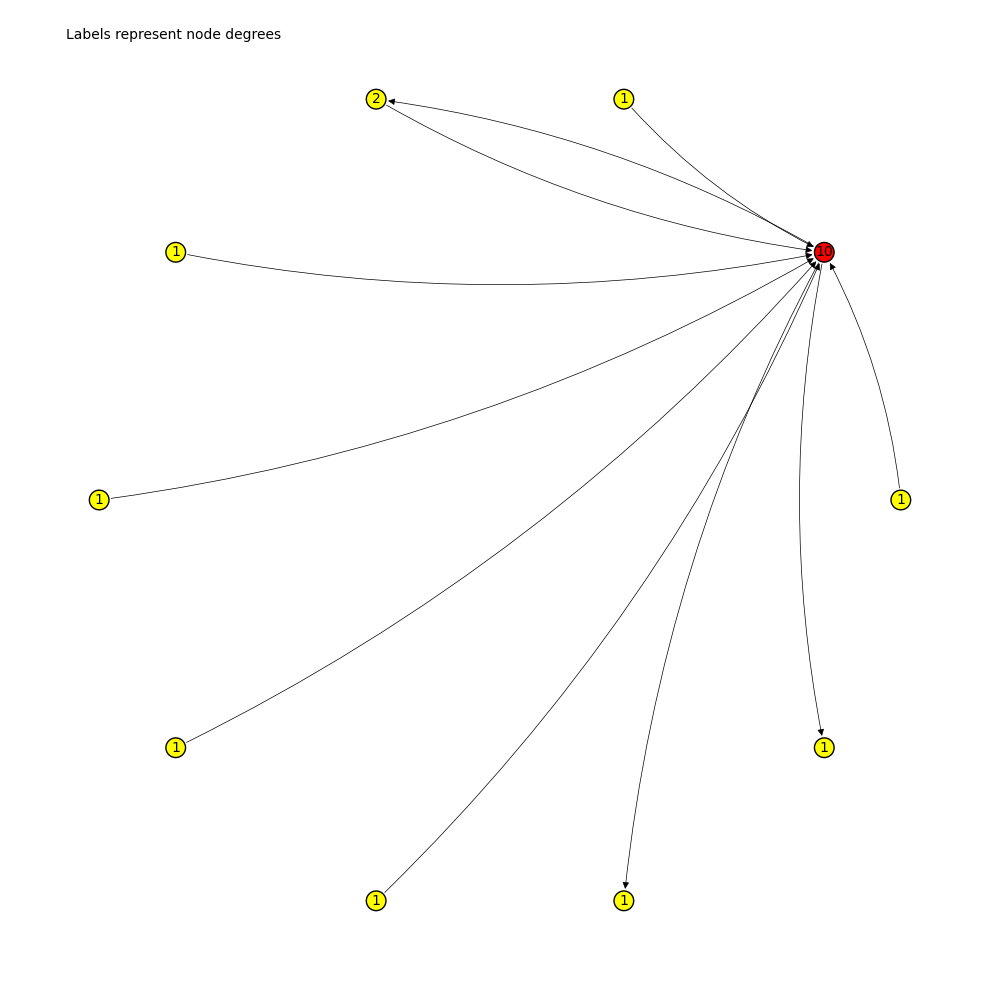
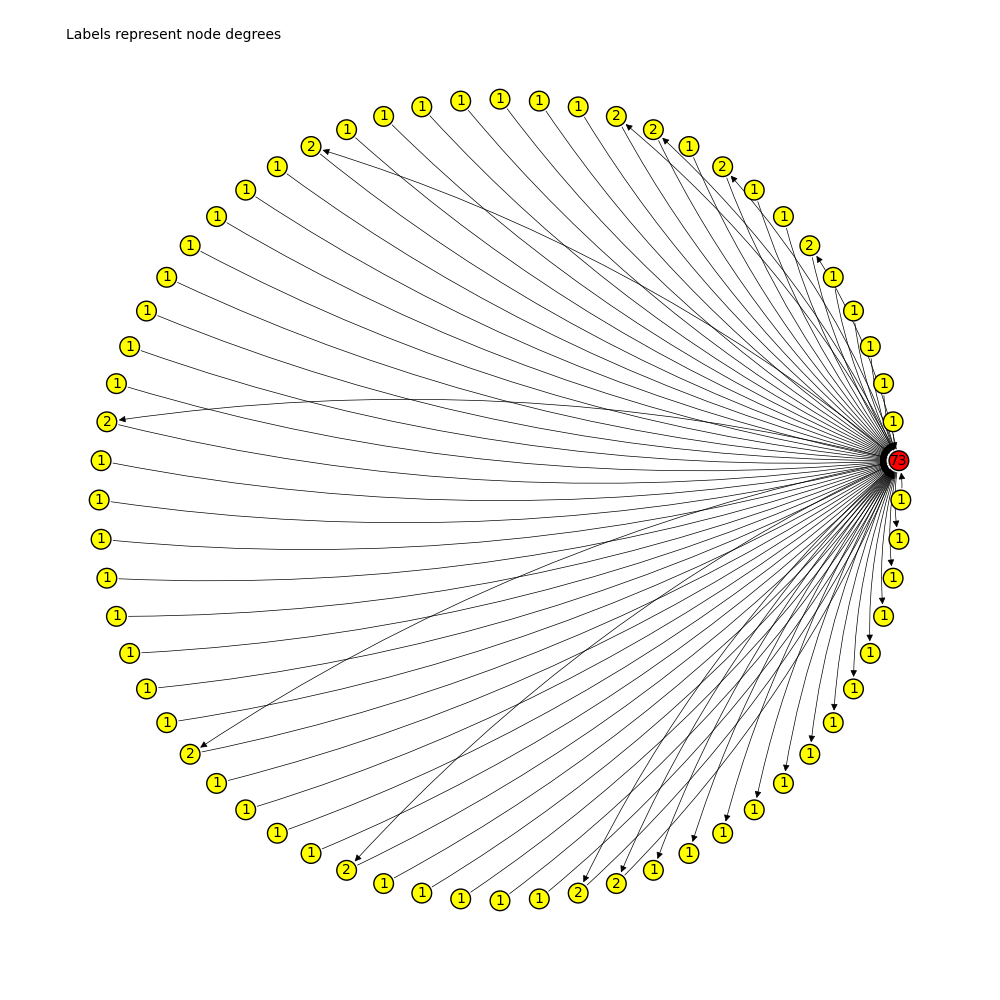
refactored peer_viz to test it properly

diff --git a/peer-viz/peer_viz.py b/peer-viz/peer_viz.py
@@ -20,8 +20,8 @@ logging.basicConfig(filename='peer_viz.log',
                     level=logging.DEBUG,
                     format='%(levelname)s:%(asctime)s:%(message)s')
 
-## set debugging mode for all websocket connection
-#websocket.enableTrace(True)
+# set debugging mode for all websocket connection
+# websocket.enableTrace(True)
 
 def _getenvvar(name: str) -> str:
     """
@@ -35,40 +35,33 @@ def _getenvvar(name: str) -> str:
         ret_value = os.getenv(name)
     return ret_value
 
-
-if __name__ == "__main__":
-    # read parameters from environment variables
-    api_host = _getenvvar('HOPR_NODE_1')
-    api_key  = _getenvvar('HOPR_NODE_1_API_KEY')
-
-    # get address id of api host and verify that the api host is still available
+def get_api_address_api_host(api_host, api_key):
+    """
+    Fetches information about the API host and checks whether the api host is available.
+    Returns the peer id of the api host
+    """
     address_url = "http://{}:3001/api/v2/account/addresses".format(api_host)
-    print(address_url)
-    headers     = {
-      'X-Auth-Token': api_key
-    }
-    address_response = requests.request("GET",
-                                        address_url,
-                                        headers=headers)
+    headers = {'X-Auth-Token': api_key}
+    address_response = requests.request("GET", address_url, headers=headers)
     my_pid = None
-    if (address_response.status_code == 200): # 200: Address fetched successfully
+    if address_response.status_code == 200:
         my_pid = address_response.json()['hoprAddress']
         logging.info("Host available (PID {})".format(my_pid))
     else:
         logging.error("Host is NOT available: start a new cluster. Status code: {}".format(address_response.status_code))
         sys.exit(1)
-    print(my_pid)
-    
-    # get information about the api host's peers
+    return my_pid
+
+def get_api_host_peer_info(api_host, api_key, my_pid):
+    """
+    Fetches information about the API host's peers and checks that my_pid is not one of them.
+    Returns a list of peer IDs connected to the API host.
+    """
     peer_url = "http://{}:3001/api/v2/node/peers?quality=0.5".format(api_host)
-    headers     = {
-      'X-Auth-Token': api_key
-    }
-    peer_response = requests.request("GET",
-                                     peer_url,
-                                     headers=headers)
-    
-    if (peer_response.status_code != 200):
+    headers = {'X-Auth-Token': api_key}
+    peer_response = requests.request("GET", peer_url, headers=headers)
+
+    if peer_response.status_code != 200:
         logging.error("Could not fetch peer information. Status code: {}".format(peer_response.status_code))
         sys.exit(1)
 
@@ -85,12 +78,17 @@ if __name__ == "__main__":
 
     # my PID should never appear as one of my peers
     assert(my_pid not in api_host_peers)
-    
-    # Log the length of api_host peers 
+
     logging.info("Number of Peers: {}".format(len(api_host_peers)))
-    print("Number of Peers: {}".format(len(api_host_peers)))
-        
-    # send a meesage to ourselves through a random peer
+    
+    return api_host_peers
+
+def ping_random_peer(api_host, api_key, api_host_peers):
+    """
+    Pings a random peer from the list of api host's peers
+    Returns the latency measurment of the ping
+    """
+    # ping a random peer
     peerId  = random.choice(api_host_peers)
     send_url = "http://{}:3001/api/v2/node/ping/".format(api_host)
     headers  = {
@@ -110,47 +108,58 @@ if __name__ == "__main__":
     
     print("Ping Status Code: {}".format(ping_response.status_code))
     latency = json.dumps(ping_response.json()['latency'])
-    print("Latency: {}".format(latency))
     logging.info("Latency: {}".format(latency))
     
-    
-    if (ping_response.status_code != 200): # 202: message sent successfully
+    if (ping_response.status_code != 200): 
         logging.error("Could not send message. Status code: {}".format(ping_response.status_code))
         sys.exit(1)
-    
-    sys.exit(1)
-    
-    # Get payment channel Information 
+
+    return latency
+
+def get_payment_channel_info(api_host, api_key):
+    """
+    Fetches payment channel information of the API host
+    Returns a dataframe of all payment channels.
+    """
     channel_url = "http://{}:3001/api/v2/channels/".format(api_host)
-    headers     = {
-      'X-Auth-Token': api_key
-    }
-    channel_response = requests.request("GET",
-                                channel_url,
-                                headers=headers)
-    
-    if (channel_response.status_code != 200):
+    headers = {'X-Auth-Token': api_key}
+    channel_response = requests.request("GET", channel_url, headers=headers)
+
+    if channel_response.status_code != 200:
         logging.error("Could not fetch channel information. Status code: {}".format(channel_response.status_code))
         sys.exit(1)
-    
-    # convert channel response to dataframe 
+
+    # convert channel response to dataframe
     d = channel_response.json()
-    df_edges = pd.concat([pd.DataFrame(v) for k,v in d.items()], keys=d)
-    
+    df_channels = pd.concat([pd.DataFrame(v) for k,v in d.items()], keys=d)
+    return df_channels
+
+def create_edge_node_dataframe(my_pid, df_channels):
+    """
+    Convert channel dataframe to edge and node dataframe.
+    Safes edge and node dataframe and returns the edge dataframe.  
+    """ 
     # create edge-dataframe by adding sender and receiver columns 
-    df_edges.insert(0, 'sender', my_pid)
-    df_edges = df_edges.rename(columns={'peerId': 'receiver'})
-    df_edges = df_edges[['sender', 'receiver', 'type', 'channelId', 'status', 'balance']]
+    df_channels.insert(0, 'sender', my_pid)
+    df_channels = df_channels.rename(columns={'peerId': 'receiver'})
+    df_edges = df_channels[['sender', 'receiver', 'type', 'channelId', 'status', 'balance']]
     df_edges["sender"] = np.where(df_edges['type'] == 'incoming', df_edges['receiver'], df_edges['sender'])
     df_edges["receiver"] = np.where(df_edges['type'] == 'incoming', my_pid, df_edges['receiver'])
-    
+
     # create node-dataframe listing all unique peer id's including self 
     df_nodes=pd.DataFrame({'nodes':np.unique(df_edges[['sender', 'receiver']].values)})
-    
+
     # save edge and node dataframe 
     df_edges.to_csv("edges.txt", index = False)  
-    df_nodes.to_csv("nodes.txt", index = False)  
-    
+    df_nodes.to_csv("nodes.txt", index = False) 
+
+    return df_edges
+
+def create_peer_network_visualization(df_edges, my_pid):
+    """
+    Creates a visualisation of the payment channel network and saves it as a png.
+    Returns nothing.
+    """ 
     # create a directed network graph 
     G = nx.from_pandas_edgelist(df_edges, 'sender', 'receiver', edge_attr=True, create_using=nx.DiGraph())
 
@@ -179,8 +188,37 @@ if __name__ == "__main__":
     plt.axis('off')
     plt.tight_layout()
     plt.savefig("peer_viz.png", pad_inches=0)
+
+if __name__ == "__main__":
+    # read parameters from environment variables
+    api_host = _getenvvar('HOPR_NODE_1')
+    api_key  = _getenvvar('HOPR_NODE_1_API_KEY')
+
+    # get address id of api host and verify that the api host is still available
+    get_api_address_api_host(api_host, api_key)
+    my_pid = get_api_address_api_host(api_host, api_key)
+    print("API Host: {}".format(my_pid))
+    
+    # get information about api host's peers 
+    api_host_peers = get_api_host_peer_info(api_host, api_key, my_pid)
+    print("Number of Peers: {}".format(len(api_host_peers)))
+        
+    # ping a random peer 
+    # latency = ping_random_peer(api_host, api_key, api_host_peers)
+    # print("Latency: {}".format(latency))
+    
+    # Get payment channel Information 
+    df_channels = get_payment_channel_info(api_host, api_key)
+    print("Number of Payment Channels: {}".format(len(df_channels)))
+
+    # Visualize the network
+    df_edges = create_edge_node_dataframe(my_pid, df_channels)
+    create_peer_network_visualization(df_edges, my_pid)
     
     sys.exit(1)
+
+    
+    
 
     
     

diff --git a/peer-viz/tests/test_peer_viz.py b/peer-viz/tests/test_peer_viz.py
@@ -3,7 +3,11 @@ import os
 
 # Load Dummy environment variable 
 os.environ["HOPR_NODE_1"] = "ip_address"
+os.environ["HOPR_NODE_1_API_KEY"] = "api_key"
 
 def test_getenvvar() -> None:
-    envvar = _getenvvar("HOPR_NODE_1") 
-    assert envvar == "ip_address"
+    envvar_0 = _getenvvar("HOPR_NODE_1")
+    envvar_1 = _getenvvar("HOPR_NODE_1_API_KEY")
+    assert envvar_0 == "ip_address"
+    assert envvar_1 == "api_key" 
+
